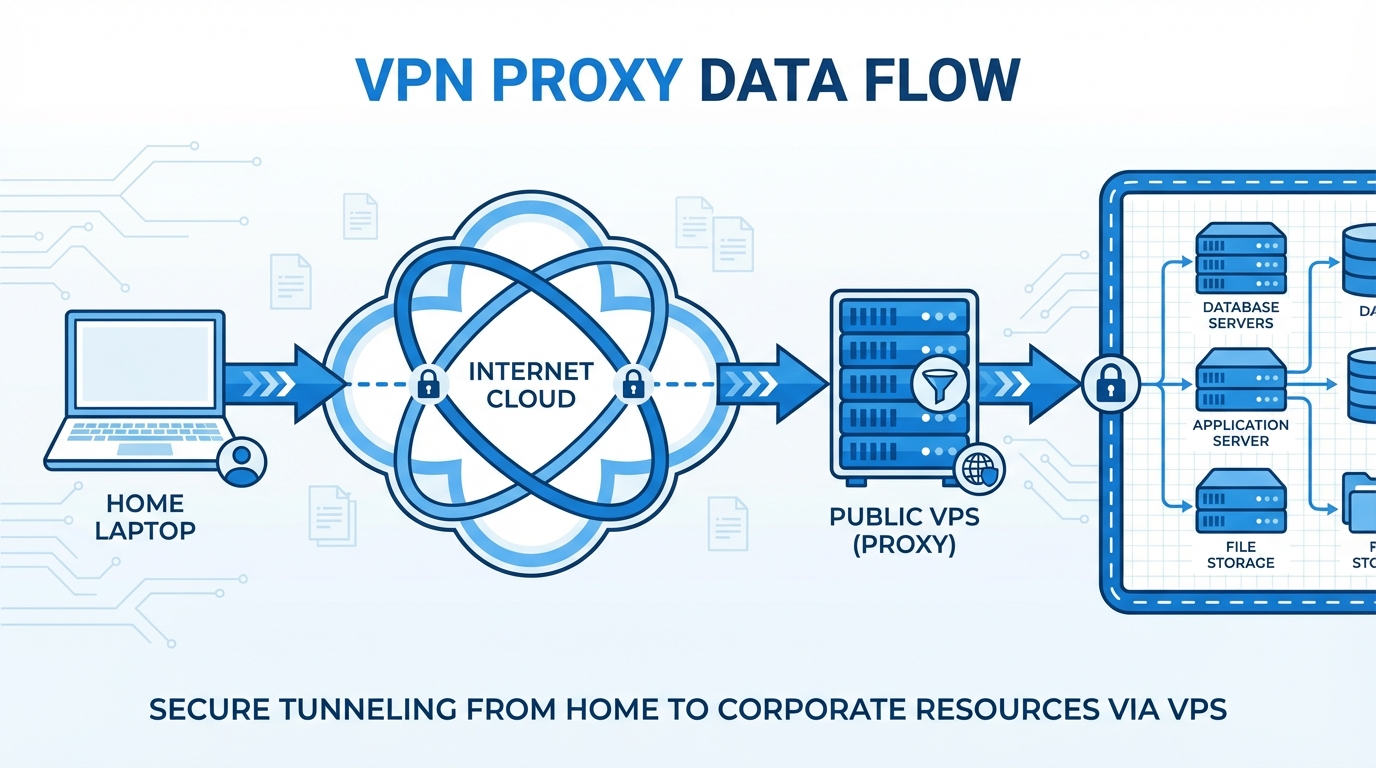
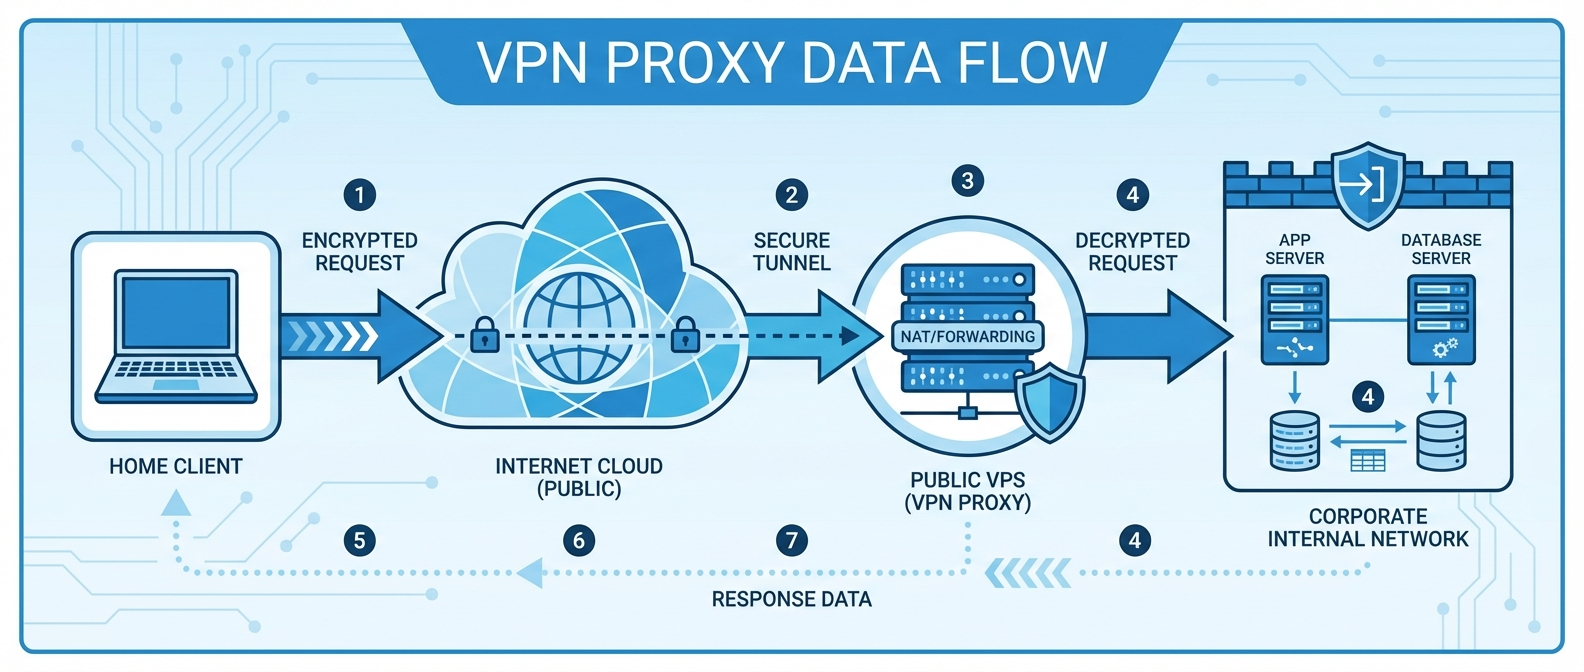
docs: 优化 README 布局，使用 21:9 超宽配图
- 使用 21:9 超宽比例重新生成配图
- 移除 ASCII 架构图，用配图替代
- 数据流说明直接放在 banner 下方

diff --git a/README.md b/README.md
@@ -4,23 +4,7 @@
 
 ![VPN Proxy Data Flow](cover.png)
 
-## 架构图
-
-```
-┌──────────────────┐      ┌──────────────────┐      ┌──────────────────────────┐
-│     家里 Mac     │      │    公网 VPS      │      │        内网机器          │
-│                  │      │                  │      │                          │
-│  ┌────────────┐  │      │  ┌────────────┐  │      │  ┌────────┐  ┌────────┐  │
-│  │clash/xray  │──┼─────▶│  │   frps     │◀─┼──────┼──│  frpc  │──│  xray  │  │
-│  │  client    │  │      │  │  :7000     │  │      │  │        │  │ :9000  │  │
-│  └────────────┘  │      │  └────────────┘  │      │  └────────┘  └────────┘  │
-│                  │      │        │         │      │                    │     │
-└──────────────────┘      │        ▼         │      │                    ▼     │
-                          │   公网端口 :9000  │      │              内网服务    │
-                          └──────────────────┘      └──────────────────────────┘
-
-数据流: Mac → 公网VPS:9000 → frps → frpc → xray:9000 → 内网
-```
+**数据流**: `Mac → 公网VPS:9000 → frps → frpc → xray:9000 → 内网`
 
 ## 组件说明
 
